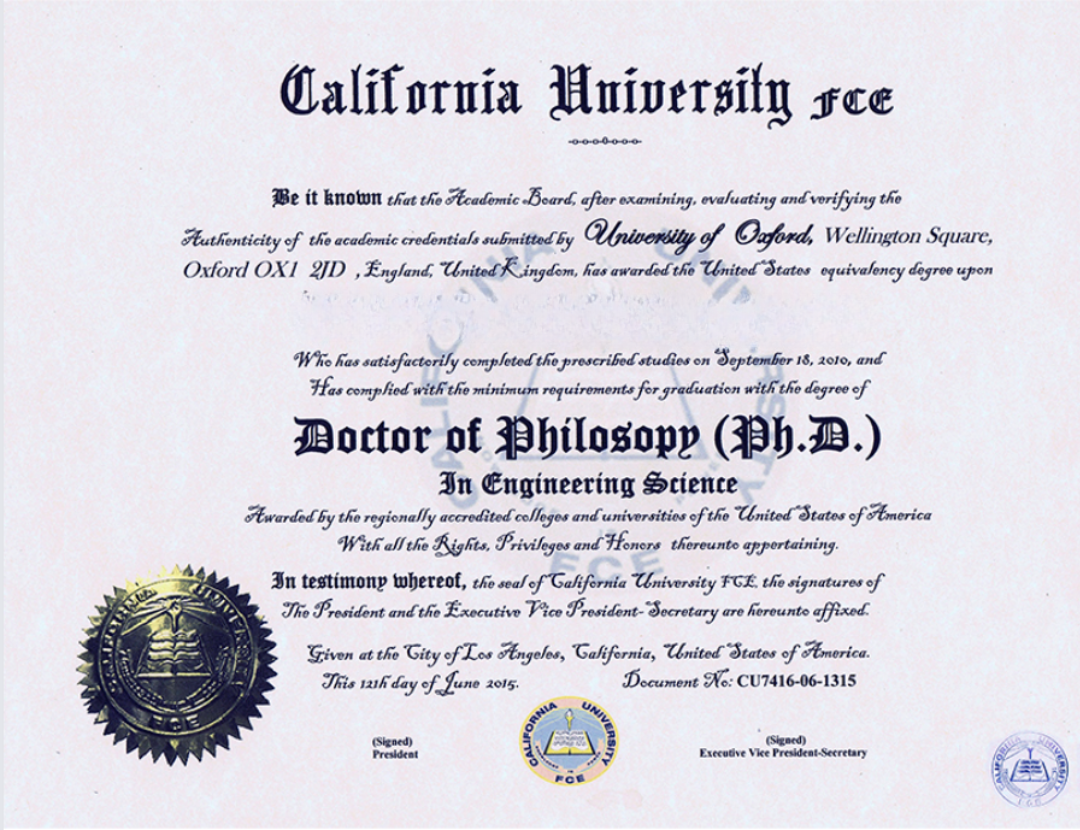
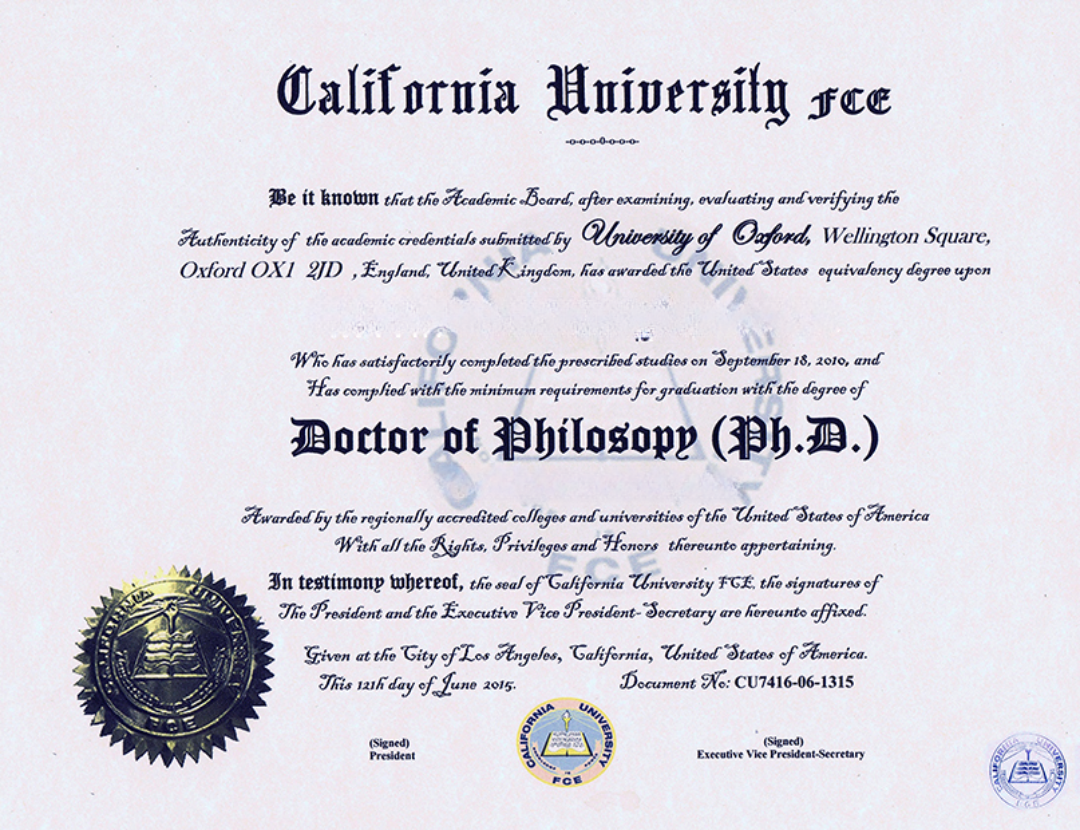
feat: add canvg library and update image editor

diff --git a/src/components/image-editor/image-editor.tsx b/src/components/image-editor/image-editor.tsx
@@ -7,6 +7,7 @@ import { Label } from "~/components/ui/label";
 import { Select, SelectContent, SelectItem, SelectTrigger, SelectValue } from "~/components/ui/select";
 import diploma from './diploma.png'
 import localFont from 'next/font/local'
+import { Canvg } from 'canvg';
 
 const eoeFont = localFont({
     src: [{ path: './OPTIEngraversOldEnglish.otf', weight: '400', style: 'normal' }],
@@ -16,13 +17,12 @@ const eoeFont = localFont({
 
 export function ImageEditor() {
     const [image, setImage] = useState<HTMLImageElement | null>(null);
-    const [text, setText] = useState('Panudet Thammawongsa');
-    const [fontFamily, setFontFamily] = useState('Arial');
+    const [text, setText] = useState('Peter Parker');
+    const [text2, setText2] = useState('In Engineering Science');
     const [fontSize, setFontSize] = useState(42);
-    const [fontColor, setFontColor] = useState('#000000');
+    const [fontColor, setFontColor] = useState('#141538');
     const [svgSize, setSvgSize] = useState({ width: 0, height: 0 });
     const svgRef = useRef(null);
-    const canvasRef = useRef<HTMLCanvasElement>(null);
 
     const loadImage = (src: string) => {
         const img = new Image();
@@ -33,21 +33,21 @@ export function ImageEditor() {
         img.src = src;
     }
 
-    const handleImageUpload = (e: ChangeEvent<HTMLInputElement>) => {
-        const files = e.target.files;
-        if (!files) return;
-        const file = files[0];
-        const reader = new FileReader();
+    // const handleImageUpload = (e: ChangeEvent<HTMLInputElement>) => {
+    //     const files = e.target.files;
+    //     if (!files) return;
+    //     const file = files[0];
+    //     const reader = new FileReader();
 
-        reader.onload = (event) => {
-            const result = event.target?.result;
-            if (typeof result !== "string") return
-            loadImage(result);
+    //     reader.onload = (event) => {
+    //         const result = event.target?.result;
+    //         if (typeof result !== "string") return
+    //         loadImage(result);
 
-        };
+    //     };
 
-        reader.readAsDataURL(file);
-    };
+    //     reader.readAsDataURL(file);
+    // };
 
 
     // const drawImage = useCallback(() => {
@@ -111,13 +111,17 @@ export function ImageEditor() {
         const diplomaDataUrl = await getDataUrl(diploma.src)
         svgData = svgData.replace(new RegExp('href="[^"]+"'), `href="${diplomaDataUrl}"`);
         const canvas = document.createElement('canvas');
-        const ctx = canvas.getContext('2d');
+        const ctx = canvas.getContext('2d')!;
         const img = new Image();
 
-        img.onload = () => {
+
+        img.onload = async () => {
             canvas.width = svgSize.width;
             canvas.height = svgSize.height;
-            ctx?.drawImage(img, 0, 0);
+
+            const v = await Canvg.from(ctx, img.src);
+            await v.render()
+
             const link = document.createElement('a');
             link.download = 'edited_image.png';
             link.href = canvas.toDataURL('image/png');
@@ -131,18 +135,10 @@ export function ImageEditor() {
         loadImage(diploma.src);
     }, [])
 
-    // useEffect(() => {
-    //     if (!image) return
-    //     drawImage();
-    // }, [drawImage, image]);
-    // 
-
-    console.debug(eoeFont)
-
     return (
         <Card className="w-full max-w-3xl mx-auto">
             <CardHeader>
-                <CardTitle>Image Editor with Custom Text</CardTitle>
+                <CardTitle>I have Ph.D.</CardTitle>
             </CardHeader>
             <CardContent>
                 {/* <img src={diploma.blurDataURL} alt="diploma" /> */}
@@ -152,8 +148,10 @@ export function ImageEditor() {
                         <Input id="imageUpload" type="file" accept="image/*" onChange={handleImageUpload} />
                     </div> */}
                     <div>
-                        <Label htmlFor="textInput">Custom Text</Label>
-                        <Input id="textInput" type="text" value={text} onChange={(e) => setText(e.target.value)} placeholder="Enter text" />
+                        <Label htmlFor="textInput1">Text 1</Label>
+                        <Input id="textInput1" type="text" value={text} onChange={(e) => setText(e.target.value)} placeholder="Enter text 1" />
+                        <Label htmlFor="textInput2">Text 2</Label>
+                        <Input id="textInput2" type="text" value={text2} onChange={(e) => setText2(e.target.value)} placeholder="Enter text 2" />
                     </div>
                     {/* <div className="grid grid-cols-3 gap-4">
                         <div>
@@ -179,37 +177,51 @@ export function ImageEditor() {
                             <Input id="fontColor" type="color" value={fontColor} onChange={(e) => setFontColor(e.target.value)} />
                         </div>
                     </div> */}
-                    <div className="flex space-x-2">
-                        {/* <Button onClick={applyGrayscale} disabled={!image}>Apply Grayscale</Button> */}
-                        <Button onClick={saveImage} disabled={!image}>Save Image</Button>
-                    </div>
+                    <svg
+                        ref={svgRef}
+                        // width={svgSize.width}
+                        // height={svgSize.height}
+                        width="100%"
+                        viewBox={`0 0 ${svgSize.width} ${svgSize.height}`}
+                        className="w-full border border-gray-300"
+                    >
+                        {image ? <image href={image.src} width="100%" height="100%" /> : null}
+                        {text ? (
+                            <text
+                                x="50%"
+                                y="320"
+                                fontFamily={eoeFont.style.fontFamily}
+                                fontSize={fontSize}
+                                fill={fontColor}
+                                fontWeight="800"
+                                textAnchor="middle"
+                                dominantBaseline="middle"
+                            >
+                                {text}
+                            </text>
+                        ) : null}
+                        {text2 ? (
+                            <text
+                                x="50%"
+                                y="485"
+                                fontFamily={eoeFont.style.fontFamily}
+                                fontSize={30}
+                                fill={fontColor}
+                                textAnchor="middle"
+                                fontWeight="800"
+                                dominantBaseline="middle"
+                            >
+                                {text2}
+                            </text>
+                        ) : null}
+                    </svg>
                 </div>
             </CardContent>
-            <CardFooter>
-                <svg
-                    ref={svgRef}
-                    // width={svgSize.width}
-                    // height={svgSize.height}
-                    width="100%"
-                    height="auto"
-                    viewBox={`0 0 ${svgSize.width} ${svgSize.height}`}
-                    className="w-full border border-gray-300"
-                >
-                    {image ? <image href={image.src} width="100%" height="100%" /> : null}
-                    {text ? (
-                        <text
-                            x="50%"
-                            y="320"
-                            fontFamily={eoeFont.style.fontFamily}
-                            fontSize={fontSize}
-                            fill={fontColor}
-                            textAnchor="middle"
-                            dominantBaseline="middle"
-                        >
-                            {text}
-                        </text>
-                    ) : null}
-                </svg>
+            <CardFooter className="justify-center">
+                <div className="flex space-x-2">
+                    {/* <Button onClick={applyGrayscale} disabled={!image}>Apply Grayscale</Button> */}
+                    <Button onClick={saveImage} disabled={!image}>Save Image</Button>
+                </div>
             </CardFooter>
         </Card>
     );

diff --git a/src/app/page.tsx b/src/app/page.tsx
@@ -4,7 +4,7 @@ const ImageEditor = dynamic(() => import("~/components/image-editor").then(c => 
 
 export default function Home() {
   return (
-    <main>
+    <main className="p-4">
       <ImageEditor />
     </main>
   );
